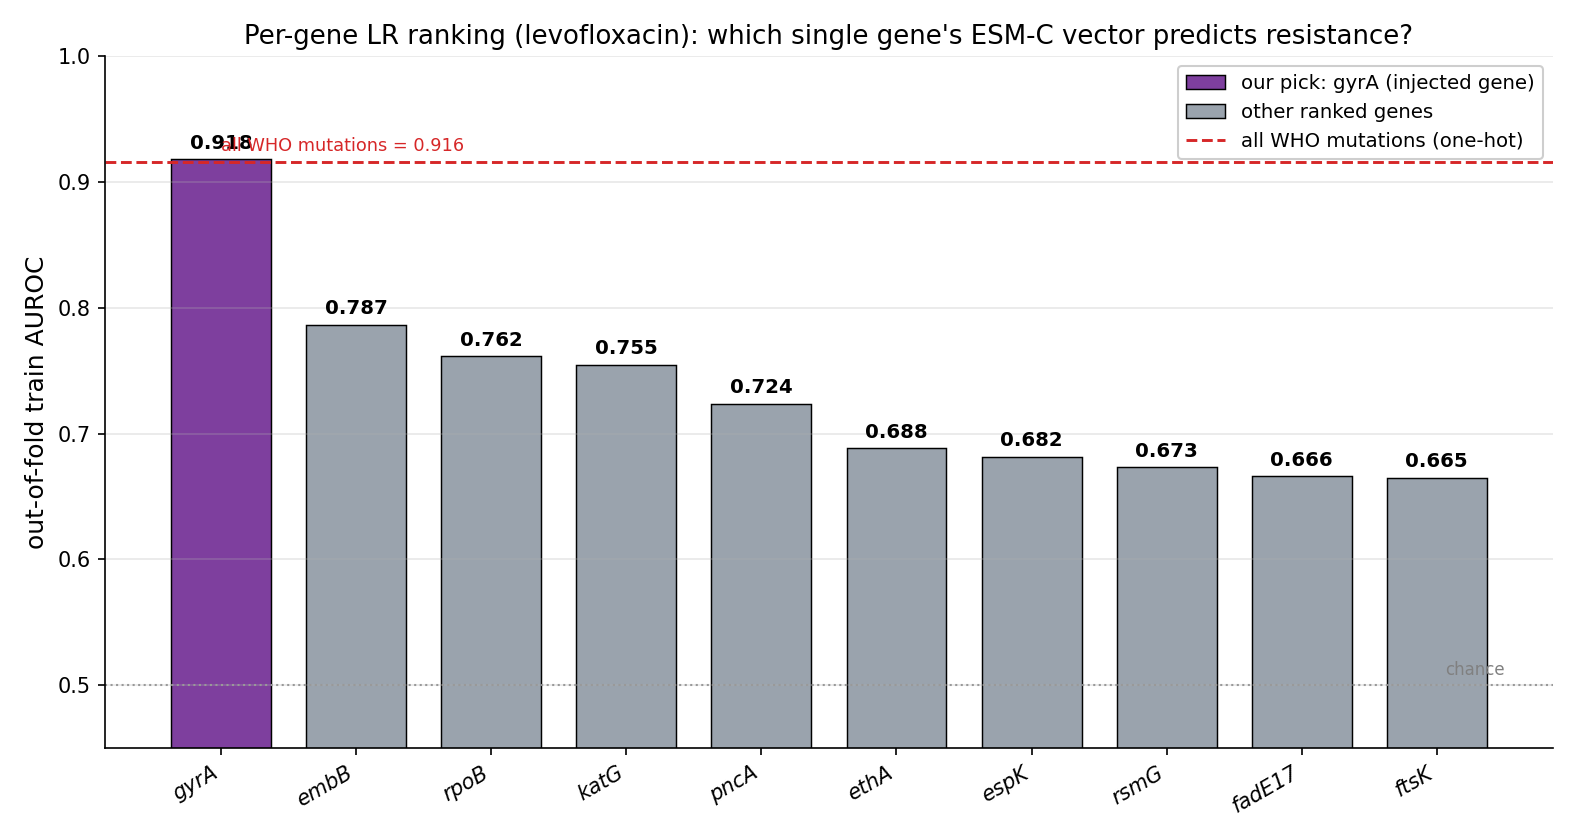
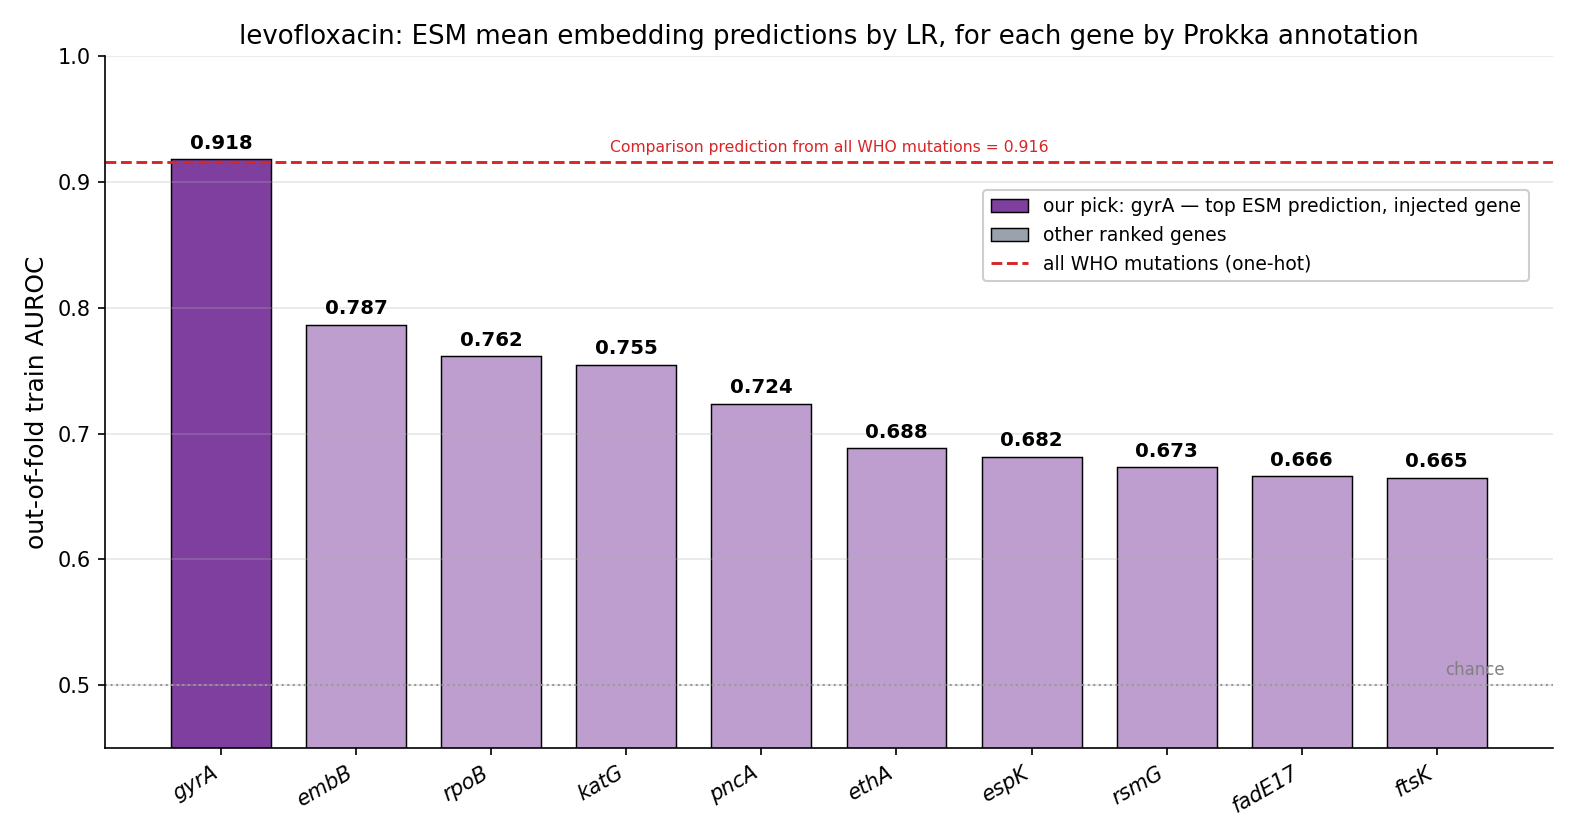
docs(snp_embeddings): plot refinements (palette, titles, WHO ceiling lines, AUPRC)
ESM screen ({drug}_esm_lr_screen_histogram): all-purple bars (pick solid, rest alpha 0.5),
centred smaller "Comparison prediction from all WHO mutations = X" red line, legend moved
clear of it; title "<drug>: ESM mean embedding predictions by LR, for each gene by Prokka
annotation".

WHO histogram ({drug}_WHO_one_hot_histogram, capital WHO): duller "royal red", legend
"our pick - top ESM prediction, injected gene" at top-right 0.72h, centred black "Prediction
using all WHO mutations by one hot embedding = X" line; title "<drug>: WHO mutation prediction
from single genes / rna regions, by one hot embedding".

Ladder: concat -> purple-blue blend (#6a4fb3), one-hot -> royal red (#c0392b), legend
"one-hot mutation" -> "WHO top gene"; faint red WHO one-hot ceiling band on BOTH AUROC (0.967)
and AUPRC (0.939) panels (tbprofiler_gene_lr now also stores AUPRC).

diff --git a/src/snp_embeddings/plot_ladder_barplot.py b/src/snp_embeddings/plot_ladder_barplot.py
@@ -27,15 +27,16 @@ import pandas as pd
 FAMILY_COLOURS = {
     "Bacformer": "#1f77b4",  # blue — genome-pooled Bacformer alone
     "ESM": "#7e3f9e",        # purple — ESM single-gene
-    "one-hot": "#d62728",    # red — WHO one-hot mutation
-    "mix": "#4f46c8",        # royal-blue/indigo — concat (ESM ⊕ Bacformer)
+    "one-hot": "#c0392b",    # royal red — WHO one-hot mutation
+    "mix": "#6a4fb3",        # purple-blue blend — concat (ESM purple ⊕ Bacformer blue)
 }
 FAMILY_LABEL = {
     "Bacformer": "Bacformer embedding",
     "ESM": "ESM-C embedding",
-    "one-hot": "one-hot mutation",
+    "one-hot": "WHO top gene",
     "mix": "concat (Bacformer ⊕ ESM)",
 }
+WHO_CEILING_COLOUR = "#c0392b"  # faint red line = full WHO one-hot ceiling (combined prediction)
 
 # How each method reads out the genome — drawn as bracketed groups separated by vertical dividers.
 GROUP_LABEL = {
@@ -54,18 +55,24 @@ def _group_boundaries(df: pd.DataFrame) -> list[int]:
 
 
 def _draw_metric_panel(
-    ax, df: pd.DataFrame, metric: str, *, ymin: float, show_xticklabels: bool, boundaries: list[int]
+    ax, df: pd.DataFrame, metric: str, *, ymin: float, show_xticklabels: bool, boundaries: list[int],
+    who_ceiling: float | None = None,
 ) -> None:
     """Render one bar panel of ``metric`` onto ``ax`` (sorted order fixed by the caller).
 
     A ``<metric>_sd`` column (e.g. ``auroc_sd``), if present, is drawn as a black ±sd error bar over
     each bar — the k-fold × m-seed spread. Rows without a value get 0 (no visible whisker). ``boundaries``
     are bar indices where the read-out group changes; a dashed vertical divider is drawn before each.
+    ``who_ceiling`` (the full WHO one-hot value for this metric) is a faint red reference line.
     """
     colours = [FAMILY_COLOURS.get(f, "#888888") for f in df["family"]]
     x = range(len(df))
     sd_col = f"{metric}_sd"
     yerr = df[sd_col].fillna(0.0).to_numpy() if sd_col in df.columns else None
+    if who_ceiling is not None:
+        ax.axhline(who_ceiling, color=WHO_CEILING_COLOUR, linewidth=8, alpha=0.2)
+        ax.text(len(df) - 0.5, who_ceiling, f"  WHO one-hot ceiling = {who_ceiling:.3f}",
+                ha="right", va="bottom", fontsize=7.5, color=WHO_CEILING_COLOUR, alpha=0.9)
     ax.bar(
         x, df[metric], color=colours, edgecolor="black", linewidth=0.7, width=0.72,
         yerr=yerr, error_kw={"ecolor": "black", "elinewidth": 1.0, "capsize": 3.5},
@@ -102,19 +109,38 @@ def _annotate_groups(ax, df: pd.DataFrame, boundaries: list[int]) -> None:
         )
 
 
-def plot_ladder(csv_path: Path, out_path: Path, *, sort_metric: str = "auroc") -> None:
+def _who_ceiling(who_csv: Path) -> dict[str, float]:
+    """Read the full WHO one-hot (auroc, auprc) from a ``tbprofiler_gene_lr_<drug>.csv`` __ALL_WHO row."""
+    if not who_csv.exists():
+        return {}
+    wdf = pd.read_csv(who_csv)
+    row = wdf[wdf["gene_name"] == "__ALL_WHO_one_hot__"]
+    if row.empty:
+        return {}
+    out = {"auroc": float(row["mut_auroc"].iloc[0])}
+    if "mut_auprc" in row.columns:
+        out["auprc"] = float(row["mut_auprc"].iloc[0])
+    return out
+
+
+def plot_ladder(csv_path: Path, out_path: Path, *, sort_metric: str = "auroc",
+                who_ceiling: dict[str, float] | None = None) -> None:
     """Two-panel ladder bar plot — AUROC (top) and AUPRC (bottom), one bar per method, family-coloured.
 
     Both panels share the same method ordering (ascending by ``sort_metric``) so the bars line up. The
-    headline read: the **concat** of the ESM-C rpoB vector with the Bacformer genome-mean (purple) tops
-    both panels — above fine-tuned Bacformer (blue) and one-hot mutation alone (red).
+    headline read: the **concat** of the ESM-C rpoB vector with the Bacformer genome-mean (purple-blue)
+    tops both panels — above fine-tuned Bacformer (blue) and the WHO top gene (red). ``who_ceiling``
+    (``{auroc, auprc}`` from the full WHO one-hot) is drawn as a faint red reference band on each panel.
     """
     df = pd.read_csv(csv_path).sort_values(sort_metric).reset_index(drop=True)
     boundaries = _group_boundaries(df)
+    who_ceiling = who_ceiling or {}
 
     fig, (ax_top, ax_bot) = plt.subplots(2, 1, figsize=(11.5, 9.5), sharex=True)
-    _draw_metric_panel(ax_top, df, "auroc", ymin=0.75, show_xticklabels=False, boundaries=boundaries)
-    _draw_metric_panel(ax_bot, df, "auprc", ymin=0.60, show_xticklabels=True, boundaries=boundaries)
+    _draw_metric_panel(ax_top, df, "auroc", ymin=0.75, show_xticklabels=False, boundaries=boundaries,
+                       who_ceiling=who_ceiling.get("auroc"))
+    _draw_metric_panel(ax_bot, df, "auprc", ymin=0.60, show_xticklabels=True, boundaries=boundaries,
+                       who_ceiling=who_ceiling.get("auprc"))
     _annotate_groups(ax_top, df, boundaries)
 
     # Family legend on the lower panel's empty upper-left, so the top panel's upper-left is free for the
@@ -138,8 +164,10 @@ def main() -> None:
     parser.add_argument("--csv", type=Path, default=here / "docs" / "rif_ladder_table.csv")
     parser.add_argument("--out", type=Path,
                         default=here / "docs" / "visualisations" / "tb_rifampicin" / "rif_ladder_barplot.png")
+    parser.add_argument("--who-csv", type=Path, default=here / "docs" / "tbprofiler_gene_lr_rifampin.csv",
+                        help="tbprofiler_gene_lr_<drug>.csv — its __ALL_WHO_one_hot__ row sets the ceiling band.")
     args = parser.parse_args()
-    plot_ladder(args.csv, args.out)
+    plot_ladder(args.csv, args.out, who_ceiling=_who_ceiling(args.who_csv))
     print(f"Wrote {args.out}")
 
 

diff --git a/src/snp_embeddings/plot_cause_histogram.py b/src/snp_embeddings/plot_cause_histogram.py
@@ -28,9 +28,10 @@ import pandas as pd
 
 # WHO one-hot is the red family (consistent across plots). The top embeddable gene is the "pick" we
 # could inject; rRNA / un-embeddable causes are the same red but hatched (real cause, can't be embedded).
-PICK_COLOUR = "#d62728"     # red — top embeddable WHO cause (the injectable pick)
+ROYAL_RED = "#c0392b"       # duller "royal" red — the WHO one-hot family colour
+PICK_COLOUR = ROYAL_RED     # top embeddable WHO cause (the injectable pick)
 EMBED_COLOUR = "#9aa3ad"    # grey — other embeddable (protein) genes
-RRNA_COLOUR = "#d62728"     # red, hatched — rRNA / un-embeddable causes
+RRNA_COLOUR = ROYAL_RED     # hatched — rRNA / un-embeddable causes
 ALL_KEY = "__ALL_WHO_one_hot__"
 DRUG_DISPLAY = {"rifampin": "rifampicin"}
 
@@ -74,7 +75,9 @@ def plot_cause(csv_path: Path, out_path: Path, *, drug: str, top_n: int = 12) ->
     if not full.empty:
         fa = float(full["mut_auroc"].iloc[0])
         ax.axhline(fa, color="black", linestyle="--", linewidth=1.2)
-        ax.text(len(genes) - 0.5, fa + 0.004, f"all WHO mutations = {fa:.3f}", ha="right", va="bottom", fontsize=8.5)
+        ax.text((len(genes) - 1) / 2, fa + 0.004,
+                f"Prediction using all WHO mutations by one hot embedding = {fa:.3f}",
+                ha="center", va="bottom", fontsize=7.5)
     ax.axhline(0.5, color="0.6", linestyle=":", linewidth=1.0)
 
     ax.set_xticks(list(x))
@@ -89,11 +92,11 @@ def plot_cause(csv_path: Path, out_path: Path, *, drug: str, top_n: int = 12) ->
         plt.Rectangle((0, 0), 1, 1, color=EMBED_COLOUR, ec="black", lw=0.7),
         plt.Rectangle((0, 0), 1, 1, color=RRNA_COLOUR, ec="black", lw=0.7, hatch="//"),
     ]
-    labels = ["our pick (top embeddable — the injected gene)", "other embeddable (protein) gene",
+    labels = ["our pick - top ESM prediction, injected gene", "other embeddable (protein) gene",
               "rRNA / un-embeddable cause"]
-    ax.legend(handles, labels, loc="lower left", fontsize=9, framealpha=0.95)
+    ax.legend(handles, labels, loc="upper right", bbox_to_anchor=(0.99, 0.72), fontsize=9, framealpha=0.95)
     ax.set_title(
-        f"Per-gene WHO-mutation cause ranking ({display_name(drug)}): which gene's mutations predict resistance?",
+        f"{display_name(drug)}: WHO mutation prediction from single genes / rna regions, by one hot embedding",
         fontsize=12.5,
     )
     fig.tight_layout()
@@ -113,7 +116,7 @@ def main() -> None:
                         help="Default: docs/visualisations/tb_<drug>/<drug>_cause_histogram.png.")
     args = parser.parse_args()
     disp = display_name(args.drug)
-    out = args.out or here / "docs" / "visualisations" / f"tb_{disp}" / f"{disp}_who_one_hot_histogram.png"
+    out = args.out or here / "docs" / "visualisations" / f"tb_{disp}" / f"{disp}_WHO_one_hot_histogram.png"
     plot_cause(args.csv, out, drug=args.drug, top_n=args.top_n)
     print(f"Wrote {out}")
 

diff --git a/src/snp_embeddings/plot_per_gene_lr_ranking.py b/src/snp_embeddings/plot_per_gene_lr_ranking.py
@@ -20,6 +20,7 @@ import matplotlib
 matplotlib.use("Agg")
 import matplotlib.pyplot as plt
 import pandas as pd
+from matplotlib.colors import to_rgba
 
 PICK_COLOUR = "#7e3f9e"   # purple — ESM single-gene (the family colour, consistent across plots)
 OTHER_COLOUR = "#9aa3ad"  # muted grey — the rest of the ranking
@@ -49,7 +50,8 @@ def plot_ranking(csv_path: Path, out_path: Path, *, drug: str | None = None, top
     drug_name = display_name(auroc_col.removeprefix("lr_auroc_"))
 
     top = df.sort_values(auroc_col, ascending=False).head(top_n).reset_index(drop=True)
-    colours = [PICK_COLOUR if i == 0 else OTHER_COLOUR for i in range(len(top))]
+    # All bars purple (ESM family): the pick solid, the rest the same purple at alpha 0.5.
+    colours = [PICK_COLOUR if i == 0 else to_rgba(PICK_COLOUR, 0.5) for i in range(len(top))]
 
     fig, ax = plt.subplots(figsize=(10.5, 5.6))
     x = range(len(top))
@@ -61,8 +63,9 @@ def plot_ranking(csv_path: Path, out_path: Path, *, drug: str | None = None, top
     ax.text(len(top) - 0.5, 0.505, "chance", ha="right", va="bottom", fontsize=8, color="0.5")
     if who_onehot_auroc is not None:
         ax.axhline(who_onehot_auroc, color=WHO_LINE_COLOUR, linestyle="--", linewidth=1.4)
-        ax.text(0.0, who_onehot_auroc + 0.006, f"all WHO mutations = {who_onehot_auroc:.3f}",
-                ha="left", va="bottom", fontsize=8.5, color=WHO_LINE_COLOUR)
+        ax.text((len(top) - 1) / 2, who_onehot_auroc + 0.006,
+                f"Comparison prediction from all WHO mutations = {who_onehot_auroc:.3f}",
+                ha="center", va="bottom", fontsize=7.5, color=WHO_LINE_COLOUR)
 
     ax.set_xticks(list(x))
     ax.set_xticklabels(top["gene_name"], rotation=30, ha="right", fontsize=10, fontstyle="italic")
@@ -77,10 +80,11 @@ def plot_ranking(csv_path: Path, out_path: Path, *, drug: str | None = None, top
         plt.Rectangle((0, 0), 1, 1, color=OTHER_COLOUR, ec="black", lw=0.7),
         plt.Line2D([0], [0], color=WHO_LINE_COLOUR, linestyle="--", linewidth=1.4),
     ]
-    ax.legend(handles, [f"our pick: {pick} (injected gene)", "other ranked genes", "all WHO mutations (one-hot)"],
-              loc="upper right", fontsize=9.5, framealpha=0.95)
+    ax.legend(handles, [f"our pick: {pick} — top ESM prediction, injected gene", "other ranked genes",
+                        "all WHO mutations (one-hot)"], loc="upper right", bbox_to_anchor=(0.99, 0.82),
+              fontsize=9.0, framealpha=0.95)
     ax.set_title(
-        f"Per-gene LR ranking ({drug_name}): which single gene's ESM-C vector predicts resistance?",
+        f"{drug_name}: ESM mean embedding predictions by LR, for each gene by Prokka annotation",
         fontsize=12.5,
     )
     fig.tight_layout()
